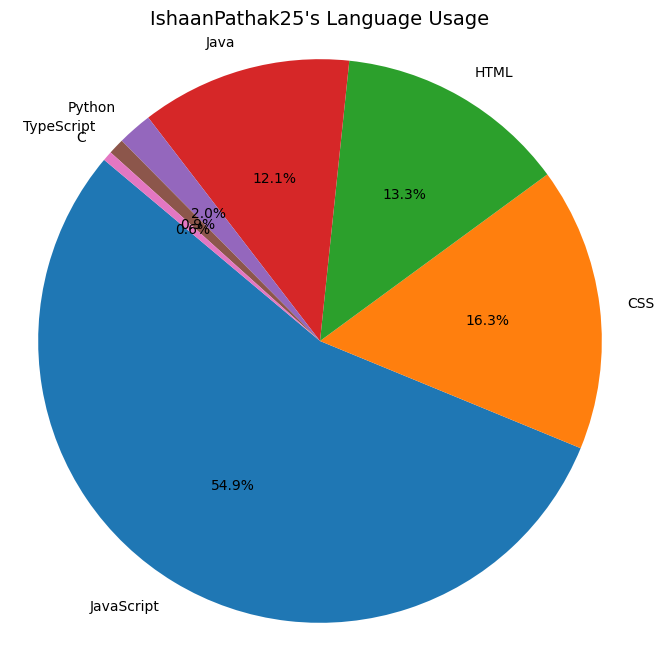
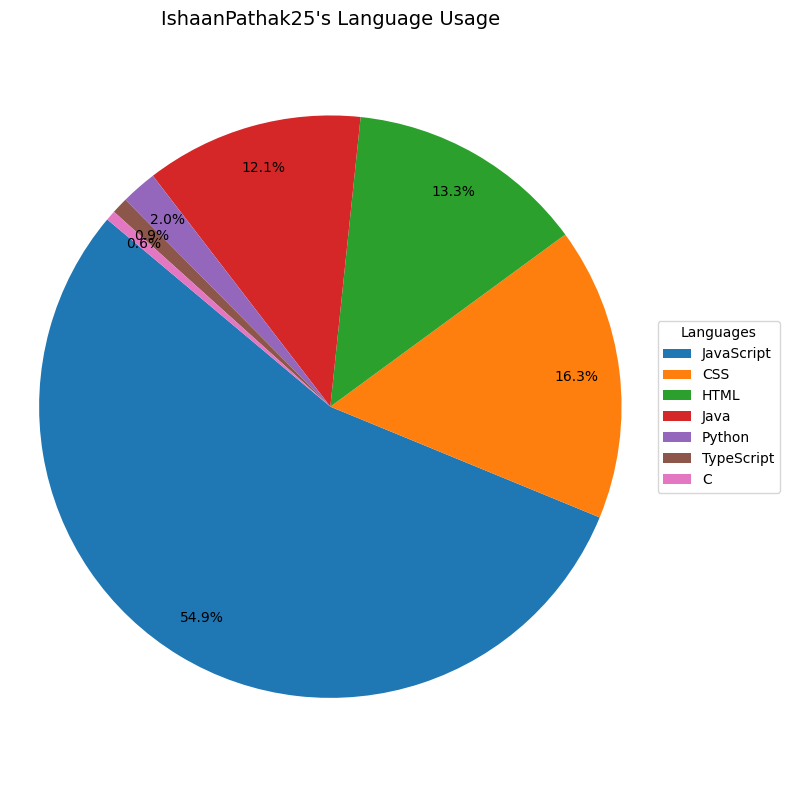
Improved chart readability

diff --git a/Github/Charts/language.py b/Github/Charts/language.py
@@ -28,15 +28,37 @@ def generate_language_pie_chart(username):
     labels = list(sorted_langs.keys())
     sizes = list(sorted_langs.values())
 
-    # Create Pie Chart
-    plt.figure(figsize=(8, 8))
-    plt.pie(sizes, labels=labels, autopct="%1.1f%%", startangle=140)
-    plt.axis("equal")  # Equal aspect ratio = circle
+    # Create Pie Chart (solid circle)
+    fig, ax = plt.subplots(figsize=(8, 8))
+    wedges, texts, autotexts = ax.pie(
+        sizes,
+        labels=None,  # Remove direct labels from slices to avoid clutter
+        autopct="%1.1f%%",
+        startangle=140,
+        pctdistance=0.85,
+    )
+
+    ax.axis("equal")
     plt.title(f"{username}'s Language Usage", fontsize=14)
 
-    # Save to file
+    # Add a legend to map colors → languages
+    ax.legend(
+        wedges,
+        labels,
+        title="Languages",
+        loc="center left",
+        bbox_to_anchor=(1, 0.5),
+        fontsize=10,
+    )
+
+    # Tidy up layout and save
+    plt.tight_layout()
     chart_path = os.path.join(output_dir, f"{username}_language_chart.png")
     plt.savefig(chart_path, bbox_inches="tight")
     plt.close()
 
     print(f"✅ Language pie chart saved to {chart_path}")
+
+if __name__ == "__main__":
+    print("🚀 Running test chart generation...")
+    generate_language_pie_chart("IshaanPathak25")
